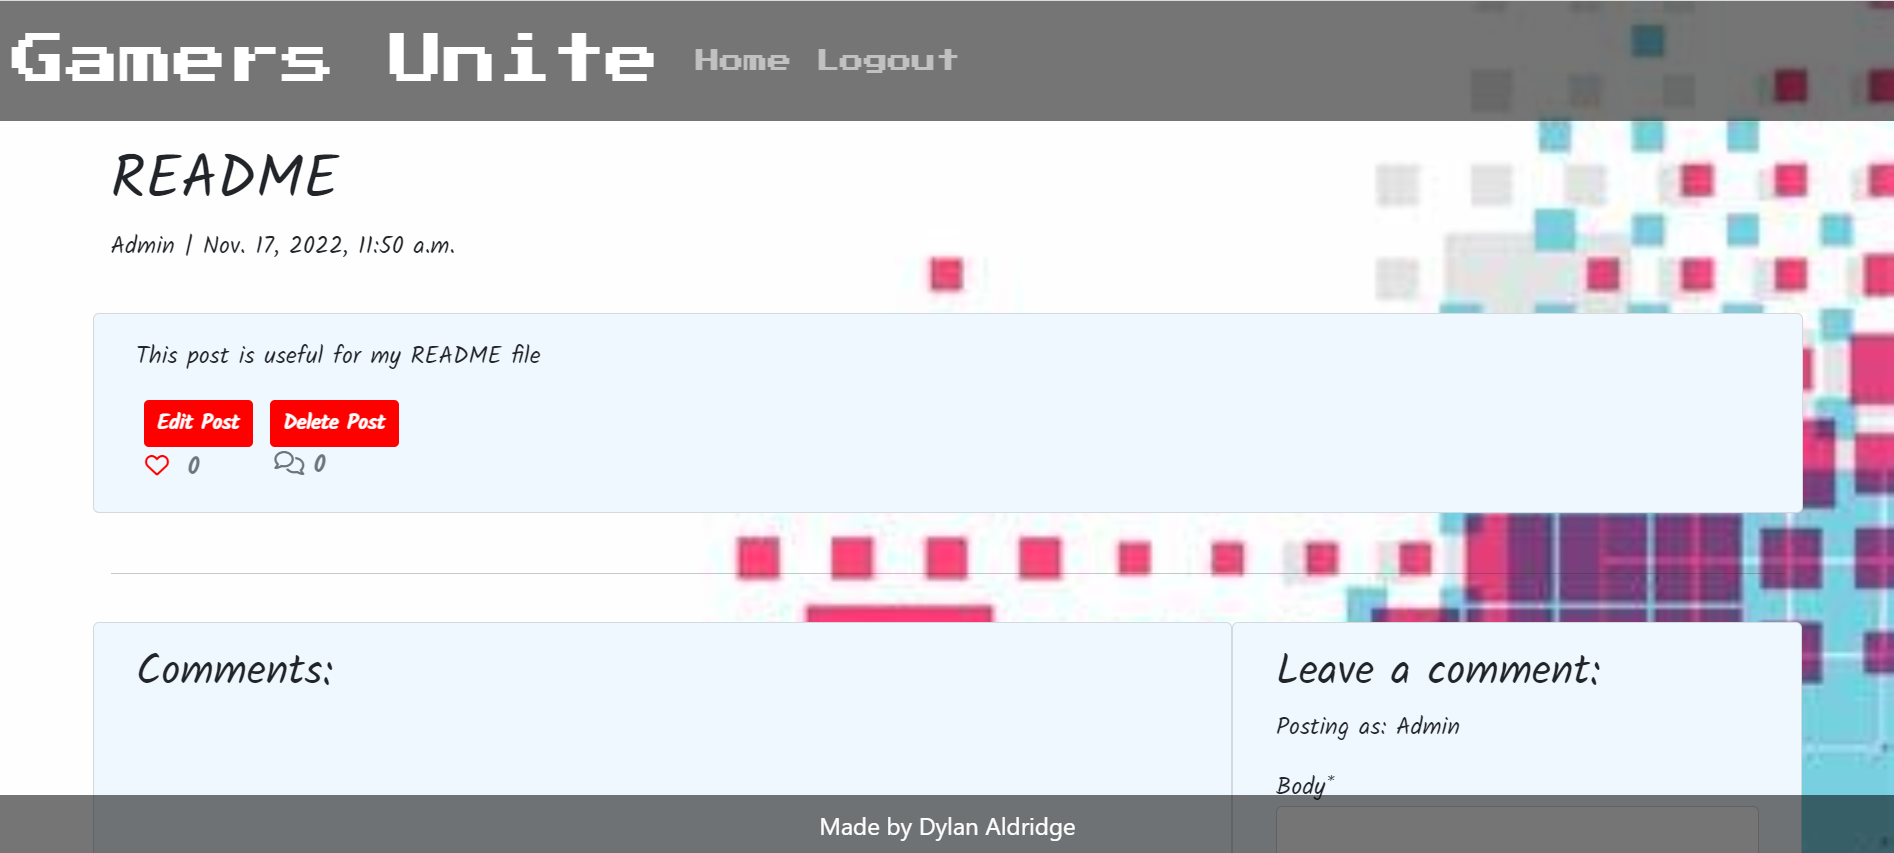
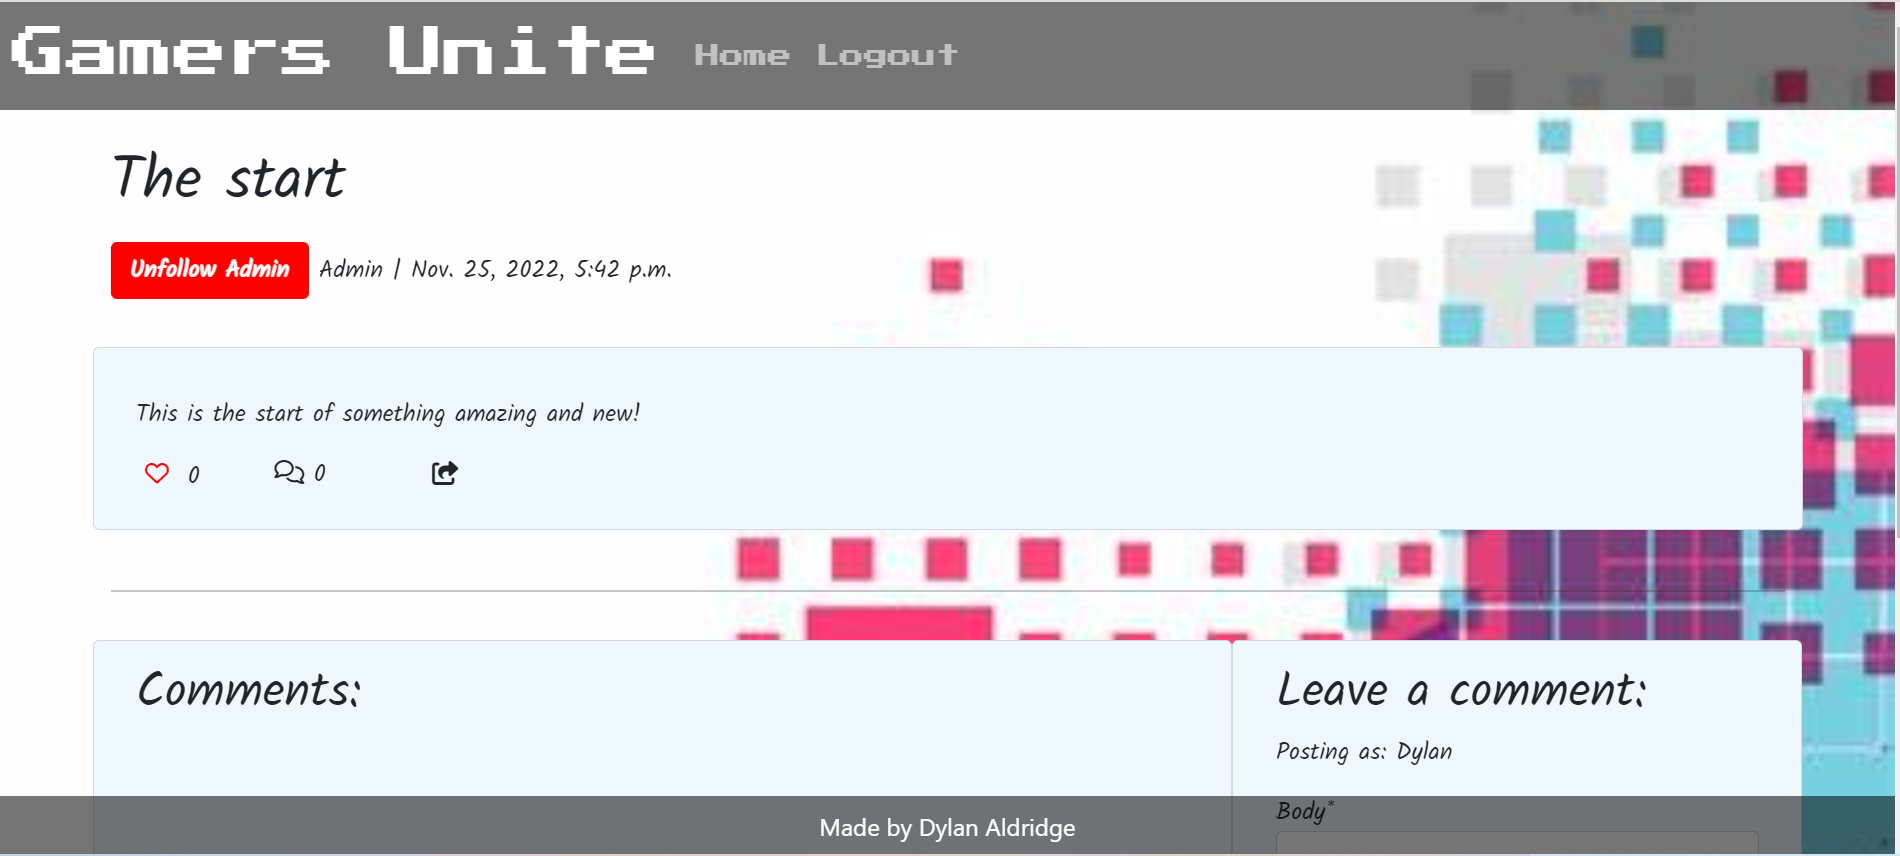
Complete markdown files

diff --git a/README.md b/README.md
@@ -48,6 +48,7 @@
                 - [Login page](/LIGHTHOUSE.md#login-page)
                 - [Logout page](/LIGHTHOUSE.md#logout-page)
                 - [Signup page](/LIGHTHOUSE.md#signup-page)
+                - [Share post page](/LIGHTHOUSE.md#share-post-page)
         - [Manual testing](#manual-testing)
             - [Improvements made](#improvements-made)
         - [Responsive testing](#responsive-testing)
@@ -213,6 +214,13 @@ These features are fully implemented
 - Delete a Post/Comment - Delete a Post/Comment that may have been posted accidentally, or that is no longer wanted
     ![Delete post](/static/images/gamers-unite-delete-post-modal.png)
     ![Delete comment](/static/images/gamers-unite-delete-comment-modal.png)
+- Follow/unfollow a user - Follow a user so that you can show your appreciation of their posts, or unfollow if you start not liking them
+    ![Follow Users](/static/images/gamers-unite-follow-user.png)
+    ![Unfollow Users](/static/images/gamers-unite-unfollow-users.png)
+- Delete others comments - Delete a comment by another user, as the post creator, to be able to remove comments that offend you
+    ![Delete others comments](/static/images/gamers-unite-delete-others-comment-modal.png)
+- Share posts - Share others posts to show others what they're missing or to update others
+    ![Share posts](/static/images/gamers-unite-share-post.png)
 
 ---
 
@@ -221,7 +229,6 @@ These features are fully implemented
 These features are either partially implemented, or to be worked on in the future
 
 - Create a user profile - Create a bio to tell people a little bit about yourself and add a picture of yourself. A profile will also contain each post created by the user
-- Follow a user - Follow a user so that you can view that users posts before any others
   
 [Back to Contents](#contents)
 
@@ -372,6 +379,12 @@ My logout page came back with no errors
 
 ![Logout test result](/static/images/gamers-unite-logout-checks.png)
 
+---
+
+My share post page came back with no errors
+
+![Share post test result](/static/images/gamers-unite-share-post-checks.png)
+
 [Back to Contents](#contents)   
 [Back to Testing](#testing)
 
@@ -423,5 +436,7 @@ Below are all resources that I used to research some of the code or images in th
 - [Login required mixin](https://docs.djangoproject.com/en/3.2/topics/auth/default/#the-loginrequired-mixin)
 - [ifequal in some html file checks](https://docs.djangoproject.com/en/dev/ref/templates/builtins/?from=olddocs#ifequal)
 - [Uploading to cloudinary](https://cloudinary.com/documentation/django_image_and_video_upload)
+- [Post sharing help](https://github.com/legionscript/socialnetwork/tree/tutorial17/social)
+- [Same model foreignkey](https://stackoverflow.com/questions/11214175/can-i-make-a-foreignkey-to-same-model-in-django)
 
 [Back to Contents](#contents)

diff --git a/LIGHTHOUSE.md b/LIGHTHOUSE.md
@@ -38,6 +38,7 @@
                 - [Login page](#login-page)
                 - [Logout page](#logout-page)
                 - [Signup page](#signup-page)
+                - [Share post page](#share-post-page)
         - [Manual testing](/README.md#manual-testing)
             - [Improvements made](/README.md#improvements-made)
         - [Responsive testing](/README.md#responsive-testing)
@@ -150,6 +151,15 @@ Any logged in user can logout whenever they wish, so there is only 1 test for th
 Any user can access the signup page, therefore there's only 1 test for this page once again
 
 ![Signup](/static/images/gamers-unite-register-lighthouse.png)
+
+[Back to contents](#contents)   
+[Back to Lighthouse testing README.md](/README.md#lighthouse-testing)
+
+### Share post page
+
+Only logged in users can access this page, therefore, there's only 1 test for this page
+
+![Share post](/static/images/gamers-unite-share-post-lighthouse.png)
 
 [Back to contents](#contents)   
 [Back to Lighthouse testing README.md](/README.md#lighthouse-testing)

diff --git a/BUGS.md b/BUGS.md
@@ -38,6 +38,7 @@
                 - [Login page](/LIGHTHOUSE.md#login-page)
                 - [Logout page](/LIGHTHOUSE.md#logout-page)
                 - [Signup page](/LIGHTHOUSE.md#signup-page)
+                - [Share post page](/LIGHTHOUSE.md#share-post-page)
         - [Manual testing](/README.md#manual-testing)
             - [Improvements made](/README.md#improvements-made)
         - [Responsive testing](/README.md#responsive-testing)
